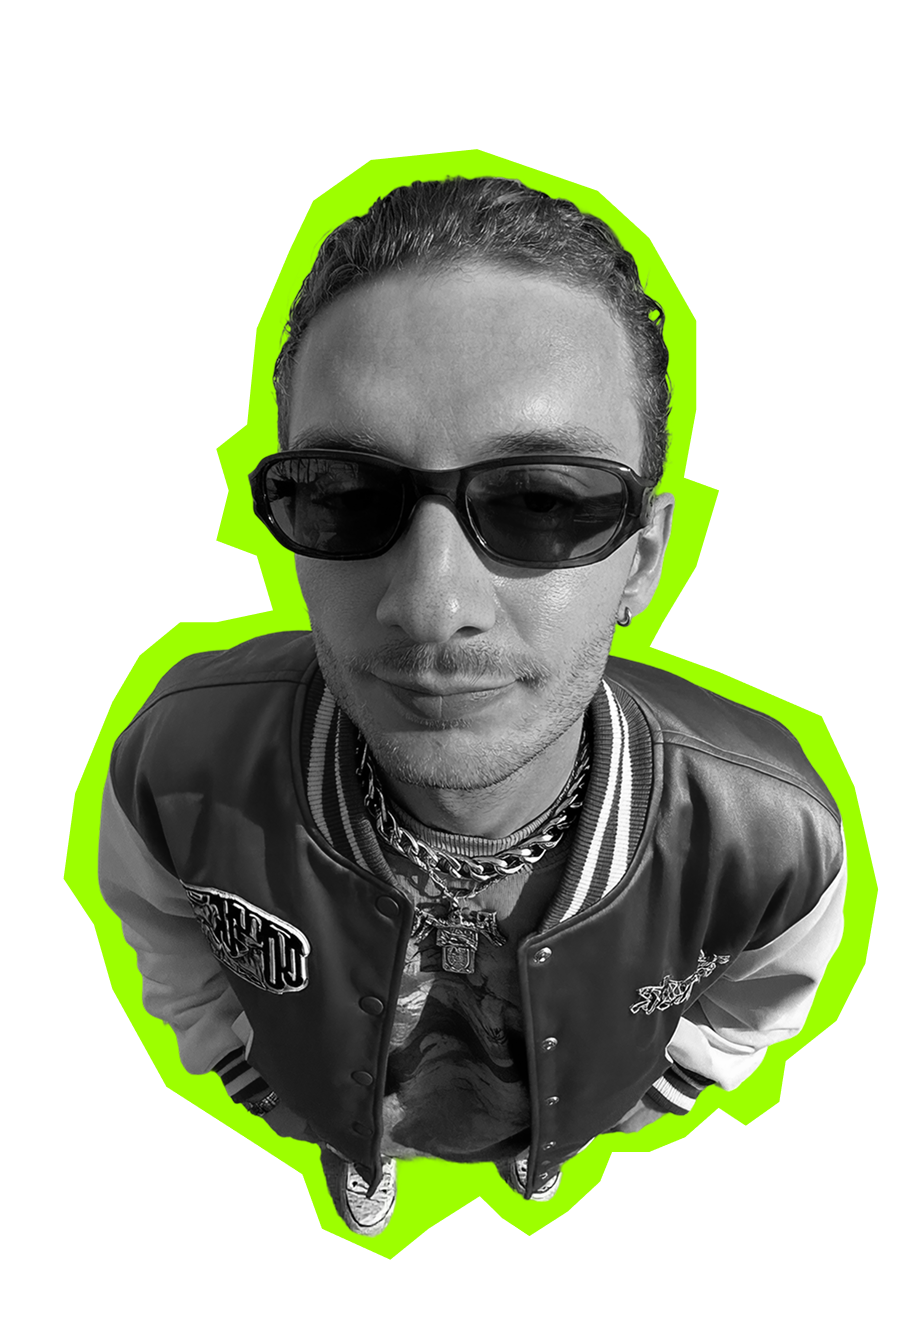
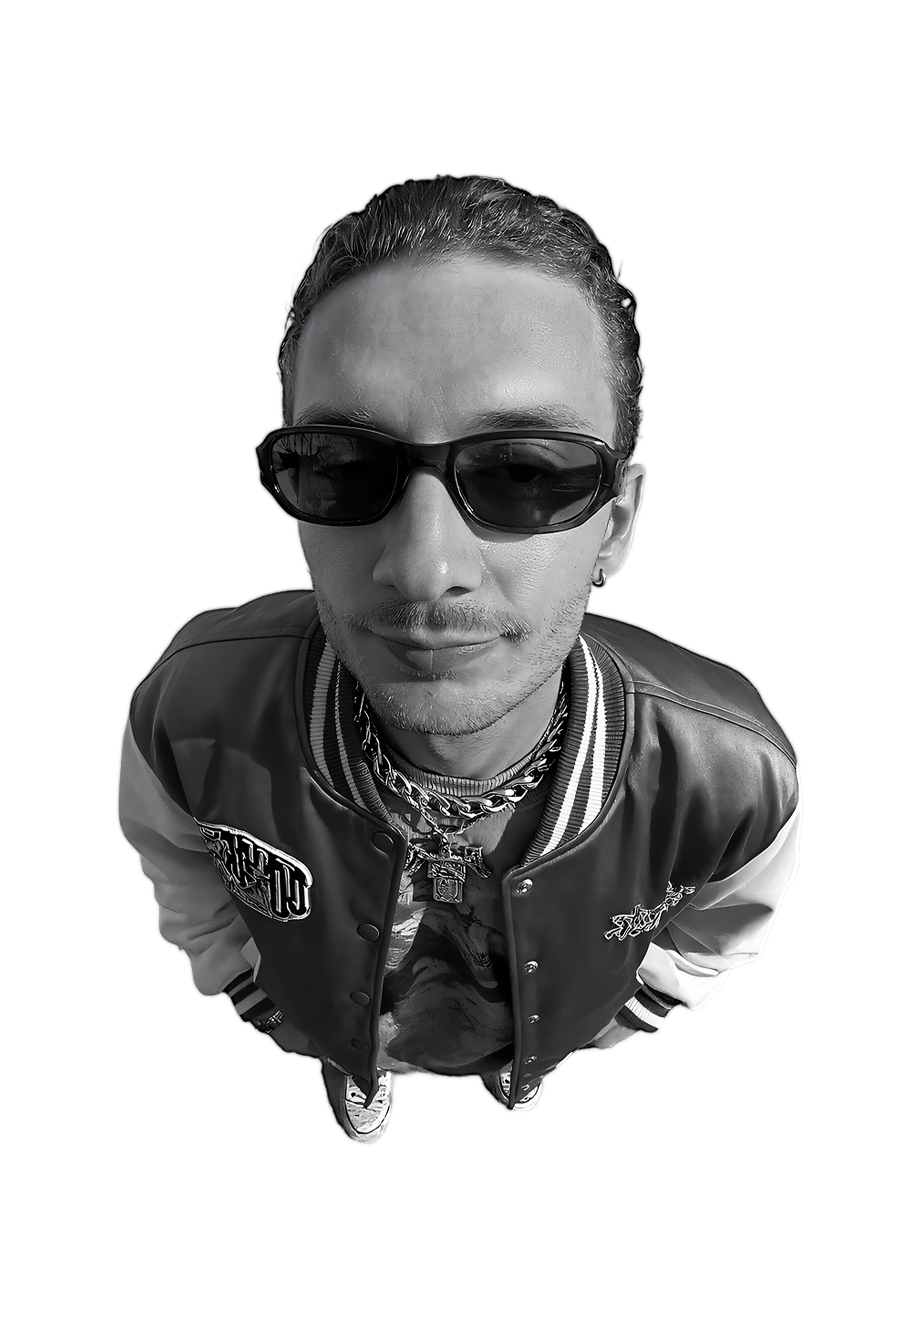
Add hero image scaling effect on scroll with smooth transitions and clamp values

diff --git a/src/js/custom/hero-image-scale.js b/src/js/custom/hero-image-scale.js
@@ -1,0 +1,27 @@
+const heroImage = document.querySelector(".hero-image");
+
+if (heroImage) {
+  heroImage.style.transition = "transform 0.3s ease-out";
+
+  const clamp = (val, min, max) => Math.max(min, Math.min(val, max));
+
+  const baseScale = 1;
+  const minScale = 0.5;
+  const maxScale = 2;
+  const initialScrollY = window.pageYOffset || document.documentElement.scrollTop || 0;
+  // Scale sensitivity per pixel of vertical scroll
+  const perPixelFactor = 0.0001;
+
+  const applyScale = () => {
+    const scrollY = window.pageYOffset || document.documentElement.scrollTop || 0;
+    const deltaY = scrollY - initialScrollY;
+    const targetScale = clamp(baseScale + deltaY * perPixelFactor, minScale, maxScale);
+    heroImage.style.transform = `scale(${targetScale})`;
+  };
+
+  // Initialize
+  applyScale();
+
+  // Keep scale in sync with actual scroll position for perfect reversibility
+  window.addEventListener("scroll", applyScale, { passive: true });
+}

diff --git a/src/index.html b/src/index.html
@@ -27,8 +27,8 @@
 
     <!--me-->
     <div data-section="hero" id="hero" class="hero -z-2 flex min-h-dvh">
-      <div class="hero-media absolute w-full lg:self-center">
-        <img src="assets/images/soma-lancet.png" class="aspect-auto h-dvh justify-self-end object-cover lg:h-auto lg:w-1/2" alt="hero" />
+      <div class="hero-media absolute w-full lg:z-2 lg:self-center">
+        <img src="assets/images/soma-lancet.png" class="hero-image aspect-auto h-dvh justify-self-end object-cover lg:h-auto lg:w-1/2" alt="hero" />
       </div>
       <div class="z-1 flex w-full flex-col content-end justify-end gap-10 p-15 lg:flex-row lg:items-end lg:justify-between">
         <h1 class="whitespace-pre-line">{{ t('hero') }}</h1>

diff --git a/src/script.js b/src/script.js
@@ -9,3 +9,4 @@ import "./js/custom/cursor";
 import "./js/custom/scroll-section";
 import "./js/custom/sections";
 import "./js/custom/scroll-to-top";
+import "./js/custom/hero-image-scale";
